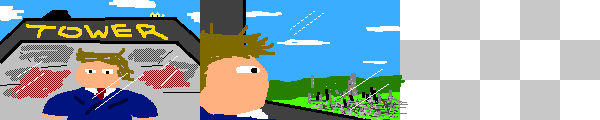
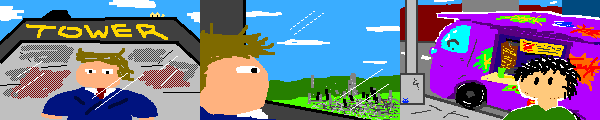
Add more stuffz.

diff --git a/src/game.ts b/src/game.ts
@@ -14,7 +14,7 @@ let SPRITES:ImageSpriteSheet;
 let TILES:ImageSpriteSheet;
 let SCENES:ImageSpriteSheet;
 addInitHook(() => {
-    FONT = new Font(IMAGES['font'], 'white');
+    FONT = new ShadowFont(IMAGES['font'], 'white');
     SPRITES = new ImageSpriteSheet(
 	IMAGES['sprites'], new Vec2(16,16), new Vec2(8,8));
     TILES = new ImageSpriteSheet(
@@ -23,6 +23,34 @@ addInitHook(() => {
 	IMAGES['scenes'], new Vec2(200,120), new Vec2(100,0));
 });
 
+enum T {
+    EMPTY = 0,
+    ROAD_V = 1,
+    ROAD_H = 2,
+    XING_V = 3,
+    XING_H = 4,
+    WALL = 5,
+    SIDEWALK = 6,
+    SIDEWALK_G = 7,
+    SIDEWALK_F = 8,
+};
+
+function rndPt(w: number, h: number) {
+    let n = rnd(w*2+h*2);
+    if (n < w) {
+	return new Vec2(n, 0);
+    }
+    n -= w;
+    if (n < w) {
+	return new Vec2(n, h-1);
+    }
+    n -= w;
+    if (n < h) {
+	return new Vec2(0, n);
+    }
+    n -= h;
+    return new Vec2(w-1, n);
+}
 
 function mkGalaxy(
     r: number, color: Color) {
@@ -342,9 +370,9 @@ class PictureScene extends GameScene {
 }
 
 
-//  Scene1
+//  Intro
 // 
-class Scene1 extends PictureScene {
+class Intro1 extends PictureScene {
     constructor() {
 	super();
 	this.image1 = SCENES.get(0);
@@ -352,20 +380,17 @@ class Scene1 extends PictureScene {
     init() {
 	super.init();
 	this.dialogBox.addDisplay(
-	    'I am a real estate tycoon guy.\n', 10);
+	    'I am a real estate tycoon guy.\n');
 	this.dialogBox.addDisplay(
-	    'I build things around.\n', 10);
+	    'I build things around.\n');
 	let wait = this.dialogBox.addWait();
 	wait.ended.subscribe(() => {
-	    this.changeScene(new Scene2());
+	    this.changeScene(new Intro2());
 	});
     }
 }
 
-
-//  Scene2
-// 
-class Scene2 extends PictureScene {
+class Intro2 extends PictureScene {
     constructor() {
 	super();
 	this.image1 = SCENES.get(1);
@@ -373,39 +398,92 @@ class Scene2 extends PictureScene {
     init() {
 	super.init();
 	this.dialogBox.addDisplay(
-	    'From this vantage point, everything looks like a dot.\n', 10);
+	    'From this vantage point, everything looks like a dot.\n');
 	this.dialogBox.addDisplay(
-	    'The world looks very small.\n', 10);
+	    'The world looks very small.\n');
+	let wait = this.dialogBox.addWait();
+	wait.ended.subscribe(() => {
+	    this.changeScene(new Intro3());
+	});
+    }
+}
+
+class Intro3 extends PictureScene {
+    constructor() {
+	super();
+	this.image1 = SCENES.get(2);
+    }
+    init() {
+	super.init();
+	this.dialogBox.addDisplay(
+	    'I\'m a food vendor guy.\n');
+	this.dialogBox.addDisplay(
+	    'This entire city is my battlefield.\n');
+	this.dialogBox.addDisplay(
+	    'Every morning, I find the best parking spot for my food truck.\n');
+	let wait = this.dialogBox.addWait();
+	wait.ended.subscribe(() => {
+	    this.changeScene(new Game());
+	});
+    }
+}
+
+
+//  Car
+//
+class Car extends Entity {
+
+    scene: Game;
+    tilemap: TileMap;
+    type: number;
+    movement: Vec2 = new Vec2(0,-1);
+
+    constructor(scene: Game, tilemap: TileMap, pos: Vec2, type=0) {
+	super(pos);
+	this.scene = scene;
+	this.tilemap = tilemap;
+	this.type = type;
+	this.sprite.imgsrc = SPRITES.get(0, this.type);
+	this.collider = this.sprite.getBounds(new Vec2());
+    }
+
+    update() {
+	super.update();
+	this.moveIfPossible(this.movement.scale(8));
+	if (this.movement.y < 0) {
+	    this.sprite.imgsrc = SPRITES.get(0, this.type);
+	} else if (0 < this.movement.x) {
+	    this.sprite.imgsrc = SPRITES.get(1, this.type);
+	} else if (0 < this.movement.y) {
+	    this.sprite.imgsrc = SPRITES.get(2, this.type);
+	} else if (this.movement.x < 0) {
+	    this.sprite.imgsrc = SPRITES.get(3, this.type);
+	}
+    }
+    
+    getObstaclesFor(range: Rect, v: Vec2, context=null as string): Rect[] {
+	return this.tilemap.getTileRects(this.tilemap.isObstacle, range);
+    }
+    
+    getFencesFor(range: Rect, v: Vec2, context: string): Rect[] {
+	return [this.tilemap.bounds];
     }
 }
 
 
 //  Player
 //
-class Player extends Entity {
-
-    scene: Game;
-    usermove: Vec2 = new Vec2();
-
-    constructor(scene: Game, pos: Vec2) {
-	super(pos);
-	this.scene = scene;
-	this.sprite.imgsrc = SPRITES.get(0);
-	this.collider = this.sprite.getBounds(new Vec2());
-    }
-
-    update() {
-	super.update();
-	this.moveIfPossible(this.usermove);
-    }
+class Player extends Car {
     
     setMove(v: Vec2) {
-	this.usermove = v.scale(4);
-    }
-    
-    getFencesFor(range: Rect, v: Vec2, context: string): Rect[] {
-	// Restrict its position within the screen.
-	return [this.scene.screen];
+	if ((v.x == this.movement.x && v.y == -this.movement.y) ||
+	    (v.x == -this.movement.x && v.y == this.movement.y)) {
+	    // brake
+	    this.movement = new Vec2();
+	} else if ((v.x != 0 && v.y == 0) || (v.x == 0 && v.y != 0)) {
+	    // steer
+	    this.movement = v.copy();
+	}
     }
 }
 
@@ -416,28 +494,78 @@ class Game extends GameScene {
 
     player: Player;
     tilemap: TileMap;
+
+    t0: number;
+    ending: boolean;
+    scale: number;
     
     score: number;
     scoreBox: TextBox;
 
     constructor() {
 	super();
-	this.scoreBox = new TextBox(this.screen.inflate(-2,-2), FONT);
+	this.scoreBox = new TextBox(new Rect(4,4,80,16), FONT);
+	this.scoreBox.background = 'rgba(0,0,0,0.7)';
+	this.scoreBox.padding = 4;
     }
     
     init() {
 	super.init();
-	
-	this.player = new Player(this, this.screen.center());
+
+	this.tilemap = new TileMap(16, 100, 100);
+	this.tilemap.isObstacle = ((c:number) => {
+	    return (c < 0 || c == T.WALL || T.SIDEWALK <= c);
+	});
+	for (let i = 0; i < 10; i++) {
+	    let y = i*10;
+	    for (let j = 0; j < 10; j++) {
+		let x = j*10;
+		this.tilemap.fill(T.SIDEWALK, new Rect(x,y,8,8));
+		this.tilemap.fill(T.WALL, new Rect(x+1,y+1,6,6));
+		this.tilemap.fill(T.ROAD_V, new Rect(x+8,y+1,2,6));
+		this.tilemap.fill(T.ROAD_H, new Rect(x+1,y+8,6,2));
+		this.tilemap.set(x+8,y, T.XING_H);
+		this.tilemap.set(x+9,y, T.XING_H);
+		this.tilemap.set(x+8,y+7, T.XING_H);
+		this.tilemap.set(x+9,y+7, T.XING_H);
+		this.tilemap.set(x,y+8, T.XING_V);
+		this.tilemap.set(x,y+9, T.XING_V);
+		this.tilemap.set(x+7,y+8, T.XING_V);
+		this.tilemap.set(x+7,y+9, T.XING_V);
+		let n = rnd(8);
+		for (let k = 0; k < n; k++) {
+		    let p = rndPt(8, 8);
+		    this.tilemap.set(x+p.x, y+p.y,
+				     (rnd(2)==0)? T.SIDEWALK_G :  T.SIDEWALK_F);
+		}
+	    }
+	}
+
+	let p = new Vec2(8, 8);
+	this.player = new Player(
+	    this, this.tilemap, 
+	    this.tilemap.map2coord(p).center());
 	this.add(this.player);
 
 	this.score = 0;
 	this.updateScore();
 	//APP.setMusic(SOUNDS['music2'], 5.35, 26.55);
+
+	this.t0 = 0;
+	this.ending = false;
+	this.scale = 0;
     }
 
     update() {
 	super.update();
+	
+	if (this.ending) {
+	    let dt = getTime()-this.t0;
+	    this.scale = 1.0/(dt*dt+1);
+	    if (this.scale < 0.05) {
+		this.changeScene(new Ending());
+	    }
+	}
     }
 
     onDirChanged(v: Vec2) {
@@ -447,12 +575,34 @@ class Game extends GameScene {
     render(ctx: CanvasRenderingContext2D, bx: number, by: number) {
 	ctx.fillStyle = 'rgb(0,0,0)';
 	ctx.fillRect(bx, by, this.screen.width, this.screen.height);
+
+	if (0 < this.scale) {
+	    ctx.save();
+	    ctx.translate(
+		this.screen.width*(1-this.scale)/2,
+		this.screen.height*(1-this.scale)/2);
+	    ctx.scale(this.scale, this.scale);
+	}
+	let window = this.player.pos.expand(160, 120);
+	this.layer.setCenter(this.tilemap.bounds, window);
+	this.tilemap.renderWindowFromBottomLeft(
+	    ctx, bx, by, this.layer.window,
+	    (x,y,c) => { return TILES.get((0 <= c)? c : T.WALL); });
 	super.render(ctx, bx, by);
 	this.scoreBox.render(ctx);
+	if (0 < this.scale) {
+	    ctx.restore();
+	}
     }
 
     updateScore() {
 	this.scoreBox.clear();
 	this.scoreBox.putText([this.score.toString()]);
+    }
+
+    startEnding() {
+	this.t0 = getTime();
+	this.ending = true;
+	playSound(SOUNDS['zoom']);
     }
 }

diff --git a/base/geom.ts b/base/geom.ts
@@ -679,18 +679,18 @@ class Rect implements Shape {
     rndPtEdge(): Vec2 {
 	let v = frnd(this.width*2 + this.height*2);
 	if (v < this.width) {
-	    return new Vec2(v, this.y);
+	    return new Vec2(this.x+v, this.y);
 	}
 	v -= this.width;
 	if (v < this.width) {
-	    return new Vec2(v, this.y+this.height);
+	    return new Vec2(this.x+v, this.y+this.height);
 	}
 	v -= this.width;
 	if (v < this.height) {
-	    return new Vec2(this.x, v);
+	    return new Vec2(this.x, this.y+v);
 	}
 	// assert(v <= this.height);
-	return new Vec2(this.x+this.width, v);
+	return new Vec2(this.x+this.width, this.y+v);
     }
     
     modpt(p: Vec2): Vec2 {

diff --git a/base/text.ts b/base/text.ts
@@ -774,7 +774,7 @@ class DialogBox extends Widget {
 	return task;
     }
 
-    addDisplay(text: string, speed=-1,
+    addDisplay(text: string, speed=16,
 	       sound: HTMLAudioElement=null, font: Font=null) {
 	let task = new DisplayTask(this, text);
 	task.speed = (0 <= speed)? speed : this.speed;
